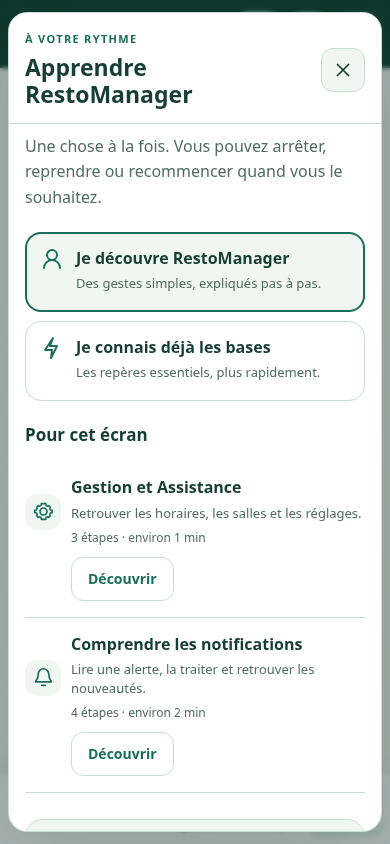
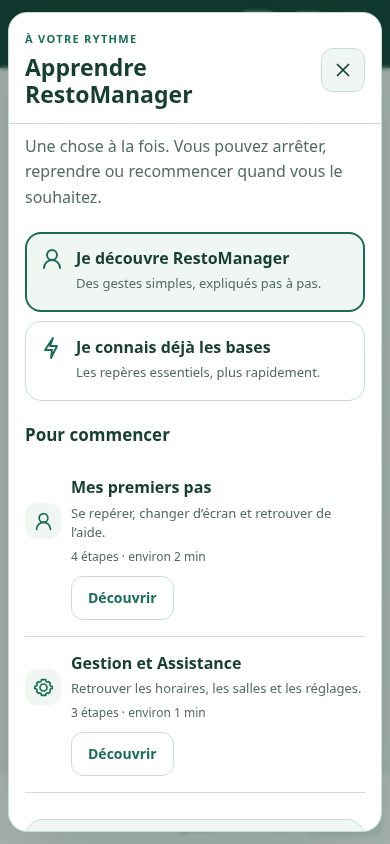
fix(rm016): lead new learners through visible controls and highlight read-only fields

diff --git a/service-v3-tutorial-model.js b/service-v3-tutorial-model.js
@@ -56,7 +56,7 @@
       go('open', 'passages', 'Passage'),
       step('people', 'passages', '#walkinGuests', 'Combien de personnes ?', 'Dans Client de passage, choisissez le nombre de personnes. Indiquez la chambre ou le nom si vous le connaissez.', 'La proposition dépend des places réellement disponibles.', {basics: 'field', essential: true}),
       step('offer', 'passages', '#walkinRecommendation', 'Lire la proposition', 'Vérifiez la table proposée et les informations affichées. Si aucune table ne convient, ne forcez pas l’installation.', 'Aucune proposition ne signifie pas qu’une table occupée est libre.', {essential: true}),
-      step('install', 'passages', '#walkinFeedback', 'Installer le passage', 'Dans le service réel, le bouton Installer le passage enregistre une installation immédiate. Attendez la confirmation.', 'Le client apparaît installé ; vous n’avez pas créé une simple réservation pour plus tard.', {basics: 'save'})
+      step('install', 'passages', ['#walkinFeedback', '#walkinForm button[type="submit"]'], 'Installer le passage', 'Dans le service réel, le bouton Installer le passage enregistre une installation immédiate. Attendez la confirmation.', 'Le client apparaît installé ; vous n’avez pas créé une simple réservation pour plus tard.', {basics: 'save'})
     ], {roles: ['restaurant']}),
     guide('release', 'Libérer une table', 'Terminer le suivi seulement après le départ réel.', 'check-check', ['passages'], [
       step('occupied', 'passages', '#quickReleaseSearch', 'Retrouver la table occupée', 'Dans Tables occupées, recherchez la chambre, le nom ou la table. Vérifiez que les clients sont réellement partis.', 'La fin estimée ne libère jamais une table toute seule.', {basics: 'search', essential: true}),
@@ -66,7 +66,7 @@
     guide('availability', 'Comprendre les disponibilités', 'Comprendre pourquoi un horaire ou une table manque.', 'calendar-clock', ['reservationForm'], [
       step('hours', 'reservationForm', '#bookingTime', 'Un horaire peut être indisponible', 'Le restaurant doit être ouvert. Le nombre de personnes, la durée et les autres réservations comptent aussi.', 'Essayez un autre horaire proposé ou demandez au Restaurant.', {basics: 'time', essential: true}),
       step('guests', 'reservationForm', '#bookingGuests', 'Le bon nombre de couverts', 'Une table doit accueillir tout le groupe. Les tables occupées ou momentanément retenues peuvent être exclues.', 'Deux personnes et six personnes n’ont pas forcément les mêmes possibilités.'),
-      step('message', 'reservationForm', '#bookingFeedback', 'Lire la raison avant de réessayer', 'Une absence de proposition n’est pas une panne certaine. Lisez le message, vérifiez la date, l’heure et les couverts.', 'En cas de doute, conservez votre saisie et utilisez Aide.', {basics: 'error', essential: true})
+      step('message', 'reservationForm', ['#bookingFeedback', '#bookingForm .bookingSubmitPrimary'], 'Lire la raison avant de réessayer', 'Une absence de proposition n’est pas une panne certaine. Lisez le message, vérifiez la date, l’heure et les couverts.', 'En cas de doute, conservez votre saisie et utilisez Aide.', {basics: 'error', essential: true})
     ]),
     guide('management', 'Gestion et Assistance', 'Retrouver les horaires, les salles et les réglages.', 'settings', ['administration'], [
       step('hours', 'administration', '#manageHoursToggle', 'Ouvrir une rubrique', 'Gestion se lit rubrique par rubrique. Les horaires sont définis par jour, pour le midi et le soir.', 'Vous consultez le bon jour avant de changer un service.', {category: 'manageHours', basics: 'menu', essential: true}),

diff --git a/service-v3-tutorial.js b/service-v3-tutorial.js
@@ -70,9 +70,12 @@ export function installTutorial({user, profile, management}) {
     if (topic && courses().some(c => c.id === topic)) {
       const focused = el('section', 'rmLearnSuggested'); focused.append(sectionTitle('L’explication qui vous intéresse'), courseCard(courses().find(c => c.id === topic))); content.append(focused);
     }
-    const contextSection = el('section', 'rmLearnSuggested'); contextSection.append(sectionTitle('Pour cet écran'));
-    const suggested = courses().filter(c => c.screens.includes(currentContext)).slice(0, 2);
-    if (!suggested.length) suggested.push(courses().find(c => c.id === 'first-steps'));
+    const intro = courses().find(c => c.id === 'first-steps');
+    const discovering = settings.level === 'beginner' && !progress(intro).complete;
+    const contextSection = el('section', 'rmLearnSuggested'); contextSection.append(sectionTitle(discovering ? 'Pour commencer' : 'Pour cet écran'));
+    const relevant = courses().filter(c => c.screens.includes(currentContext) && c.id !== intro.id);
+    const suggested = discovering ? [intro, ...relevant.slice(0, 1)] : courses().filter(c => c.screens.includes(currentContext)).slice(0, 2);
+    if (!suggested.length) suggested.push(intro);
     for (const c of suggested) contextSection.append(courseCard(c)); content.append(contextSection);
     const practice = el('section', 'rmLearnPractice'); const practiceWords = el('div'); practiceWords.append(el('span', 'rmLearnEyebrow', 'ESSAYER SANS RISQUE'), el('h2', '', 'Un exercice, aucun vrai client'), el('p', '', role === 'restaurant' ? 'Retrouvez la chambre 204, installez le client fictif puis libérez sa table.' : 'Retrouvez la chambre 204 et confirmez sa réservation fictive.'));
     practice.append(practiceWords, button('M’entraîner', () => showPractice('welcome'), 'rmLearnPrimary', 'arrow-up-right')); content.append(practice);
@@ -112,7 +115,7 @@ export function installTutorial({user, profile, management}) {
     settings.practice[event.data.scenario] = true; save(); status('Exercice réussi. Rien n’a été modifié dans le service réel. Vous pouvez recommencer.');
   });
 
-  function visible(n) { return !!n?.isConnected && n.getClientRects().length > 0 && getComputedStyle(n).visibility !== 'hidden' && !n.closest('[hidden], [inert]'); }
+  function visible(n) { return !!n?.isConnected && n.getClientRects().length > 0 && getComputedStyle(n).visibility !== 'hidden' && !n.closest('[hidden]'); }
   function findTarget(step) { return step.target.flatMap(selector => [...document.querySelectorAll(selector)]).find(visible) || null; }
   function clearTarget() { if (!target) return; target.classList.remove('rmLearnTarget'); const ids = (target.getAttribute('aria-describedby') || '').split(' ').filter(id => id && id !== 'rmGuideDescription'); if (ids.length) target.setAttribute('aria-describedby', ids.join(' ')); else target.removeAttribute('aria-describedby'); target = null; }
   function closeGuide({restore = true} = {}) {

diff --git a/docs/audits/RM016_LEARNING_20261117.md b/docs/audits/RM016_LEARNING_20261117.md
@@ -18,7 +18,7 @@ Branche `feature/rm016-learning-center`, depuis DEV `32608cd114a7da8b0cbff537ca2
 
 Onze modules courants Restaurant : premiers pas, recherche, création, lecture du service, installation, changements, passage, libération, disponibilités, Gestion/Assistance et notifications. Huit modules Réception : premiers pas, recherche, création, confirmation/suivi, lecture du service, disponibilités, horaires/Assistance et notifications. Un douzième module Restaurant, RM-012, s’ajoute uniquement lorsque sa capacité serveur est présente. RM-015 reste masquée et son aide publique future devra rester distincte du personnel.
 
-Le niveau découverte conserve toutes les explications. Le niveau rapide garde les gestes et concepts essentiels. « Je n’ai pas compris » explique au besoin champ, recherche, calendrier, heure, défilement, enregistrement, erreur ou actualisation. La FAQ explique notamment Retour, les statuts et les actions impossibles selon le rôle.
+Le niveau découverte propose Mes premiers pas en tête tant que ce parcours n’est pas terminé, y compris depuis Gestion, et conserve toutes les explications. Le niveau rapide garde les gestes et concepts essentiels. « Je n’ai pas compris » explique au besoin champ, recherche, calendrier, heure, défilement, enregistrement, erreur ou actualisation. La FAQ explique notamment Retour, les statuts et les actions impossibles selon le rôle.
 
 L’exercice d’accueil fait rechercher la chambre 204. Le Restaurant ouvre Plus d’actions puis installe directement, sans confirmation préalable, et vérifie un départ avant libération. La Réception confirme uniquement : le résultat reste « Confirmé · Attendu », sans bouton d’installation, de placement ou de libération. Les deux autres exercices permettent de choisir une date/heure puis enregistrer un exemple, et de lire/retirer/annuler le retrait d’une notification fictive.
 
@@ -57,7 +57,7 @@ Hors connexion, l’aide et les exercices déjà chargés restent utilisables et
 
 [Résultats Playwright détaillés](preuves/rm016-20261117/browser-results.json) et [synthèse locale](preuves/rm016-20261117/local-checks.json).
 
-Les tests parcourent entièrement les onze/huit modules courants dans les trois formats de référence et les premiers pas/exercices d’accueil aux sept largeurs. Ils comparent aussi les libellés enseignés aux vrais boutons de création/confirmation/installation/changement de table et aux menus de chaque rôle. Ils vérifient les vrais repères du DOM pour chaque rôle, les niveaux, les retours, la pause/reprise, les statuts, l’absence de faux appels métier, le clavier, les débordements, le non-recouvrement des repères (y compris avec texte agrandi sur 360 px), l’origine opaque de l’exercice et la vérification des messages. Les scénarios supplémentaires couvrent la saisie RM-011 refusant une sortie, les soumissions réelles bloquées en lecture, les repères disparus, les capacités RM-012/RM-015, le hors connexion, Quoi de neuf ?, la rotation, le stockage indisponible et le changement d’identité.
+Le scénario de débutant commence par le véritable bouton Découvrir Mes premiers pas dans le centre, sans raccourci de lancement technique. Les tests parcourent entièrement les onze/huit modules courants dans les trois formats de référence et les premiers pas/exercices d’accueil aux sept largeurs. Ils comparent aussi les libellés enseignés aux vrais boutons de création/confirmation/installation/changement de table et aux menus de chaque rôle. Ils vérifient les vrais repères du DOM pour chaque rôle et leur mise en évidence effective à chaque étape, y compris sur les formulaires en lecture, les niveaux, les retours, la pause/reprise, les statuts, l’absence de faux appels métier, le clavier, les débordements, le non-recouvrement des repères (y compris avec texte agrandi sur 360 px), l’origine opaque de l’exercice et la vérification des messages. Les scénarios supplémentaires couvrent la saisie RM-011 refusant une sortie, les soumissions réelles bloquées en lecture, les repères disparus, les capacités RM-012/RM-015, le hors connexion, Quoi de neuf ?, la rotation, le stockage indisponible et le changement d’identité.
 
 Le workflow RM-016 conserve automatiquement captures avant/après et résultats. Les workflows existants de non-régression DEV (Gestion/Assistance, notifications/glissement/PWA, RM-012, formulaires et intégration) s’exécutent sur la PR. Leurs résultats exacts sont consignés dans sa description avant présentation ; un succès local n’est pas présenté comme un succès CI.
 

diff --git a/docs/audits/RM016_LEARNING_DESIGN_20261117.md b/docs/audits/RM016_LEARNING_DESIGN_20261117.md
@@ -6,7 +6,7 @@ Issue [#175](https://github.com/DylanL-Dev/RestoManager/issues/175), mission exp
 
 La visite précédente comprend six étapes Réception et sept Restaurant. Elle décrit surtout des écrans, conserve un unique marqueur « vu » dès son lancement et à la fermeture, ne propose ni recherche d’aide ni exercice. La carte fixe peut gêner le repère montré. Elle utilise déjà la navigation protégée ; cette protection est conservée.
 
-Le nouveau centre d’aide possède deux niveaux, un choix d’exercice et une recherche de questions courantes. Les autres parcours et le lexique sont repliés. Le bouton Aide reste disponible depuis chaque écran, et Gestion conserve son accordéon Didacticiel & aide. Les deux niveaux utilisent les mêmes règles métier : le niveau rapide retire seulement les explications détaillées.
+Le nouveau centre d’aide propose Mes premiers pas en tête aux débutants tant que ce parcours n’est pas terminé, quel que soit l’écran de départ. Il possède deux niveaux, un choix d’exercice et une recherche de questions courantes. Les autres parcours et le lexique sont repliés. Le bouton Aide reste disponible depuis chaque écran, et Gestion conserve son accordéon Didacticiel & aide. Les deux niveaux utilisent les mêmes règles métier : le niveau rapide retire seulement les explications détaillées.
 
 Les guides restent une **lecture accompagnée des vrais écrans**. Un repère indique le contrôle ; la carte se place à côté, au-dessus ou au-dessous. Les étapes de navigation demandent de cliquer/toucher le véritable bouton. Les autres expliquent un seul geste ou un seul concept, avec un résultat attendu et une aide « Je n’ai pas compris ». Une action principale permet de poursuivre. Précédent, Quitter, Recommencer et reprise restent disponibles.
 
